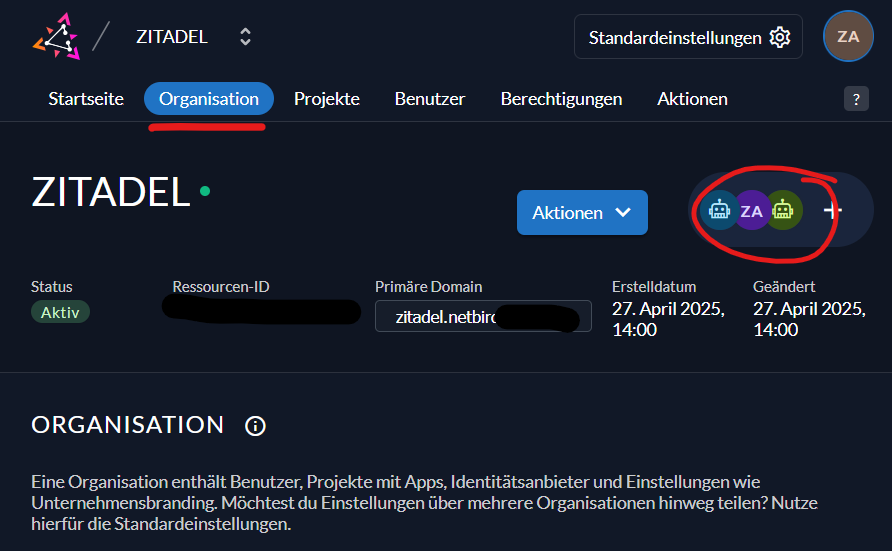
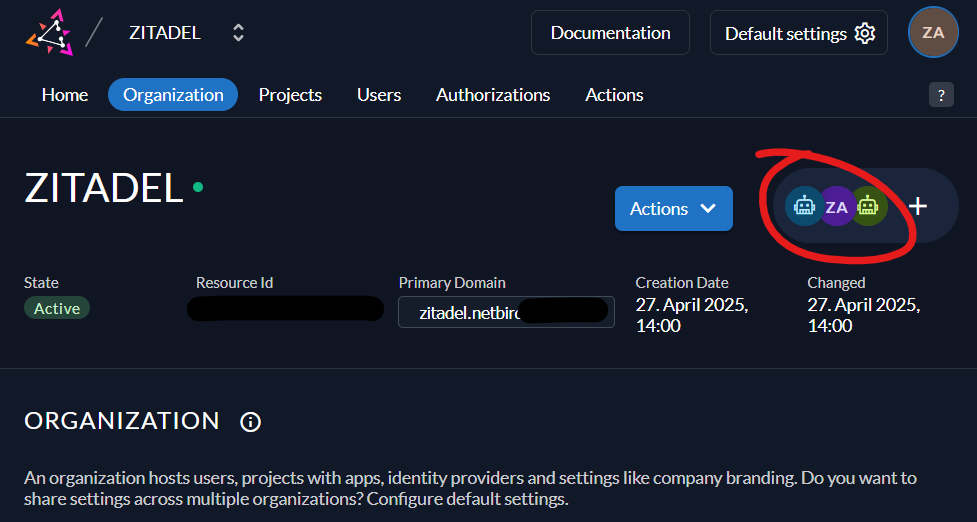
Update README with instructions for creating Zitadel OIDC Web application and add PAT usage guidance

diff --git a/README.md b/README.md
@@ -20,15 +20,13 @@ https://docs.netbird.io/selfhosted/migration/external-to-embedded-idp
 Before running `netbird-migrate-from-zitadel.sh`, you need a Zitadel OIDC Web
 Application for NetBird.
 
-The migration workflow uses `create-zitadel-netbird-sso-project.sh` to create:
-- A Zitadel project for NetBird.
-- A Zitadel OIDC Web application with the required settings.
-- Client credentials output for the migration flow.
-
-To run this helper script, you must provide a Personal Access Token (PAT) with
+You must provide a Personal Access Token (PAT) with
 Org Owner permission in your Zitadel organization. Create one with very short expiration (max 1 day).
 
-For manual PAT creation, login to Zitadel as Administrator, got to Users -> service-users, choose zitadel-admin-sa -> Personal Access Tokens and click on New:
+Login to Zitadel as Administrator, got to Users -> service-users, choose _zitadel-admin-sa_ -> Personal Access Tokens and click on New. **Copy the Token to the file `netbird-migrate-from-zitadel.env` in Netbird directory** (if the file is missing, create it):
+```sh
+MIGRATE_FROM_ZITATEL_PAT="YOUR-PERSONAL-ACCESS-TOKEN"
+```
 <img src="assets/zitadel-service-user-pat-00.png" /><br>
 <br>
 Go back to Organization, click on managers:
